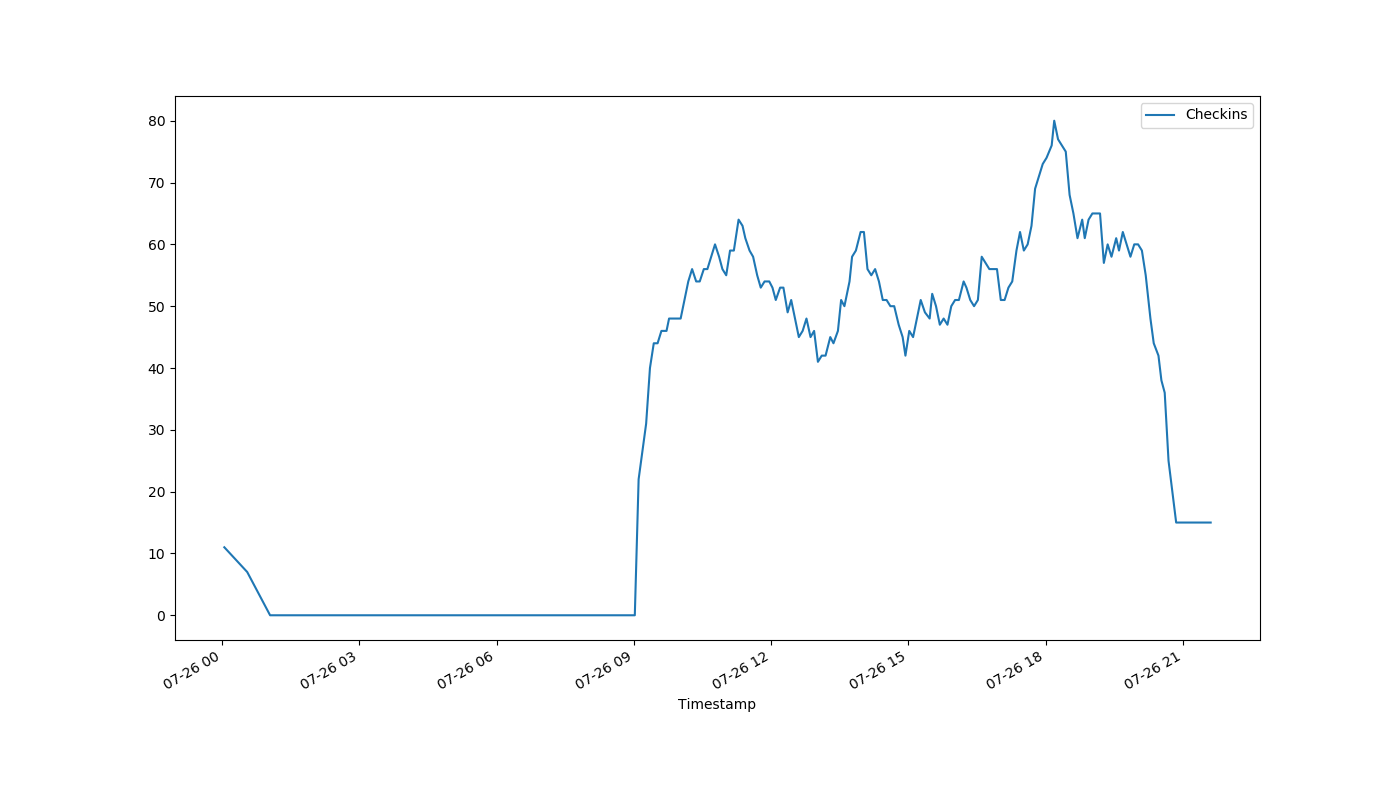
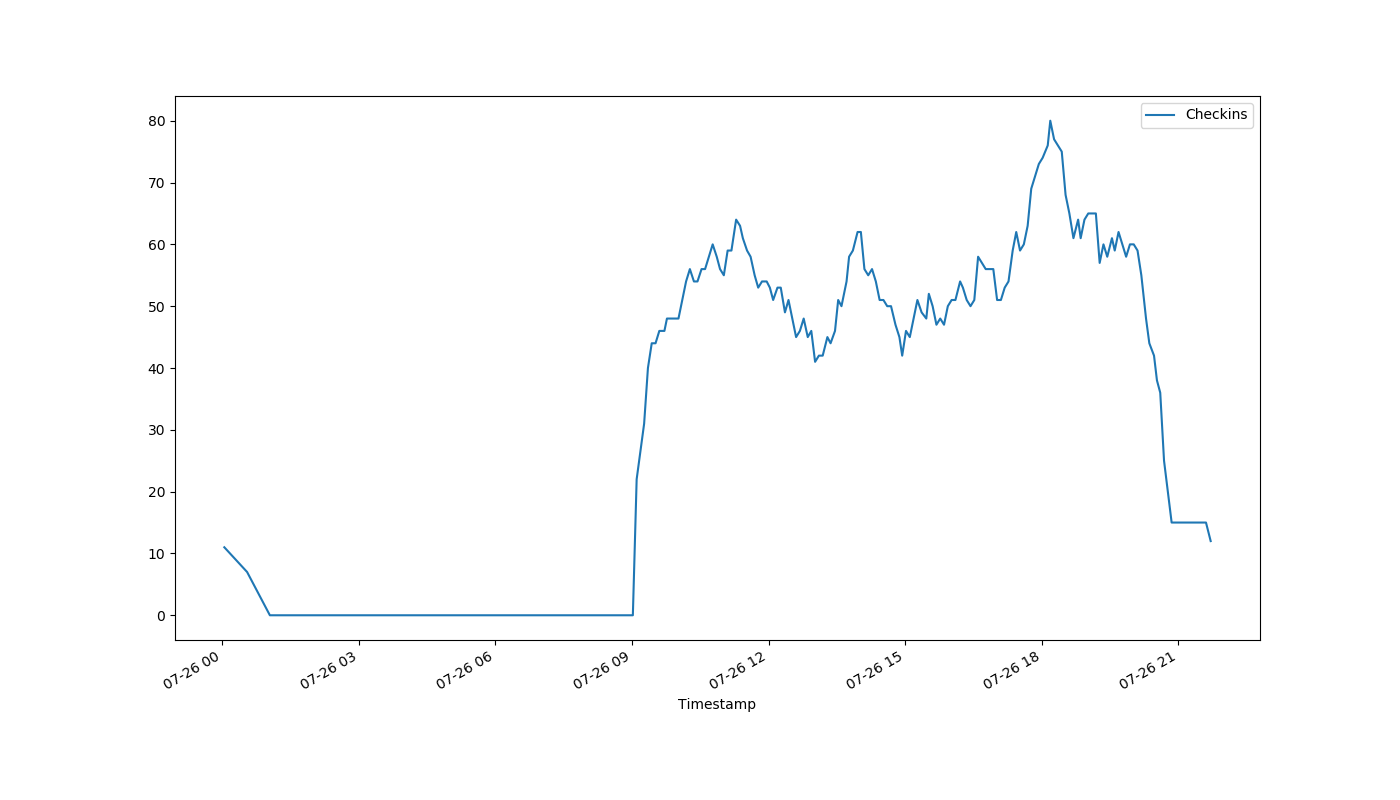
auto-Jul-26-21:44:20

diff --git a/index.html b/index.html
@@ -1,1 +1,1 @@
-<!DOCTYPE html><html><head><meta http-equiv="refresh" content="30"><link rel='stylesheet' href='holmcurrent.css'></head><body><p id='count'>15</p><div id='graph-wrap'><img id='graph' src='holmgraph-Jul-26.png'></div><p id='updated'>Last updated 21:37:03 / 21:36:17</p></body></html>
+<!DOCTYPE html><html><head><meta http-equiv="refresh" content="30"><link rel='stylesheet' href='holmcurrent.css'></head><body><p id='count'>12</p><div id='graph-wrap'><img id='graph' src='holmgraph-Jul-26.png'></div><p id='updated'>Last updated 21:43:03 / 21:42:28</p></body></html>
